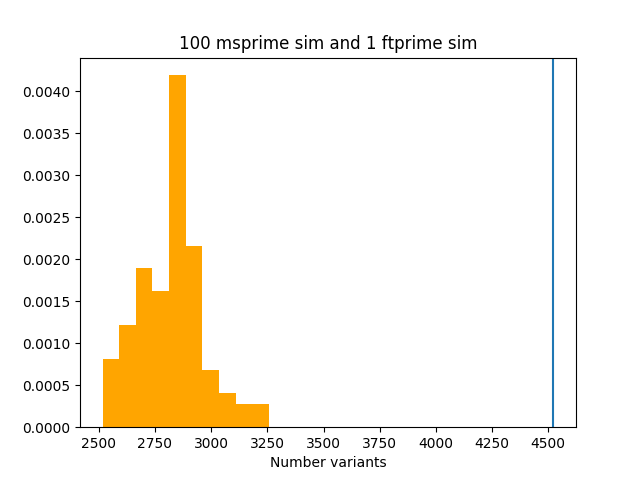
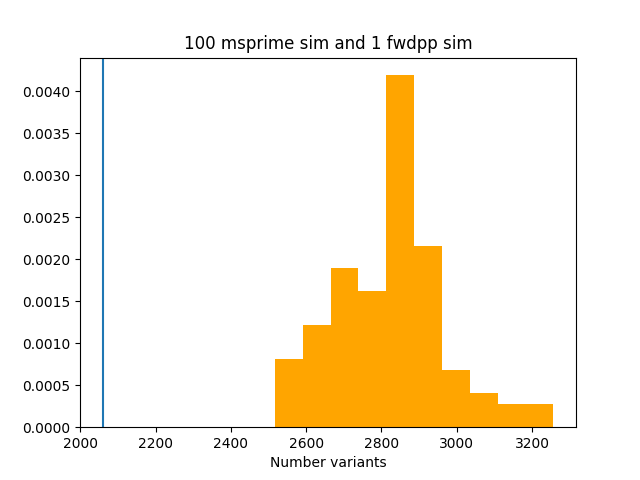
Add fwdpp version of check

Changed region(s): [[0.0938, 0.1562, 0.875, 0.9375], [0.2812, 0.0625, 0.75, 0.125]]

diff --git a/sims/check.py b/sims/check.py
@@ -3,14 +3,21 @@ import msprime
 import random
 from matplotlib import pyplot as plt
 
+
 random.seed(111)
-ts = msprime.load('tree.hdf5')
-L = ts.sequence_length
+ft_ts = msprime.load('simupoptree.hdf5')
+L = ft_ts.sequence_length
+fwd_ts = msprime.load('fwdpptree.hdf5')
+L = ft_ts.sequence_length
+#assert L == fwd_ts.sequence_length, "fwdpp {} and simupop {} don't match".format(fwd_ts.sequence_length, L)
 NUM = 100
 
+tss = {'simupop': ft_ts, 'fwdpp':  fwd_ts}
+
+L = fwd_ts.sequence_length
 theta = 10.
 rho = 10.
-mut_rate = theta/4. / L
+mut_rate = theta/4./ L
 rec_rate = rho/4. / L
 S_msprime = []
 
@@ -19,22 +26,29 @@ for _ in range(NUM):
                          recombination_rate=rec_rate)
     S_msprime.append(len([i for i in g.variants()]))
 
+k ='fwdpp'
+ts = fwd_ts
+
+# for k, ts in tss.items():
 rng = msprime.RandomGenerator(random.randint(1, 2**32 - 1))
 nodes = msprime.NodeTable()
 edges = msprime.EdgeTable()
 sites = msprime.SiteTable()
 mutations = msprime.MutationTable()
 ts.dump_tables(nodes=nodes, edges=edges, sites=sites, mutations=mutations)
-
 mutgen = msprime.MutationGenerator(rng, mut_rate)
 mutgen.generate(nodes, edges, sites, mutations)
 ts = msprime.load_tables(nodes=nodes, edges=edges, sites=sites,
                          mutations=mutations)
+tss[k] = ts
 
-S_fwd = len([i for i in ts.variants()])
+
+
+
 
 tmp = plt.hist(S_msprime, color='orange', normed=1)
 plt.xlabel('Number variants')
-plt.title(' '.join([str(NUM), 'msprime sim and 1 ftprime sim']))
-plt.axvline(x=S_fwd)
-plt.show()
+plt.title(' '.join([str(NUM), 'msprime sim and 1', 'fwdpp', 'sim']))
+#for k, ts in tss.items():
+plt.axvline(x=len([i for i in ts.variants()]))
+plt.savefig('check-results.png')
